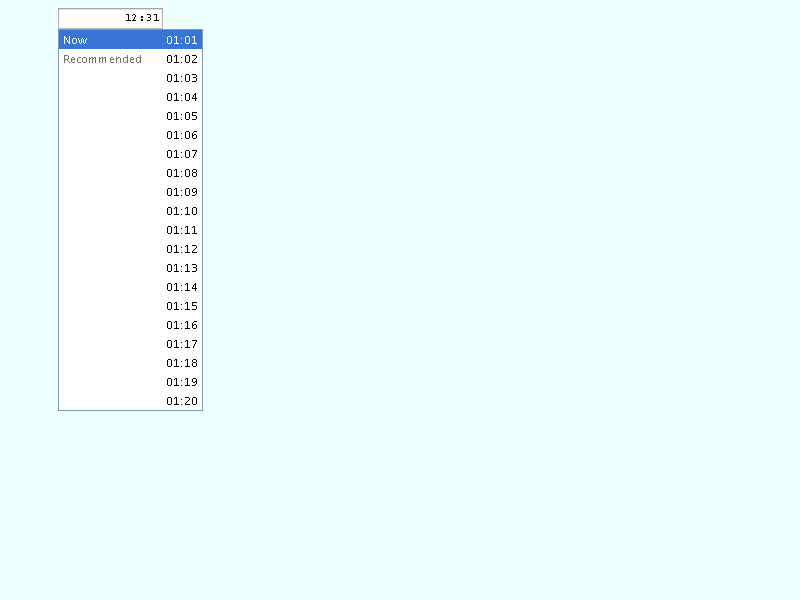
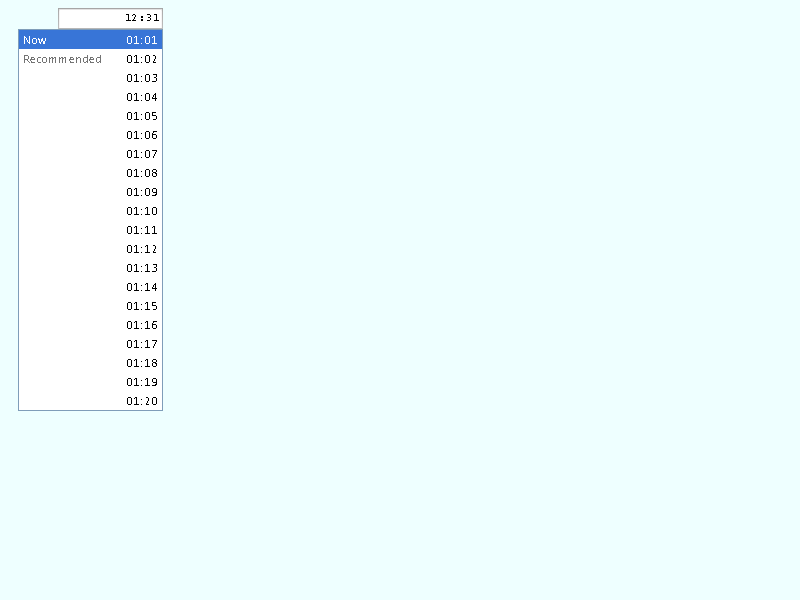
Don't use mock PagePopup if possible, part 3
Update RTL tests in fast/forms/{clendar,suggestion}-picker/ so that they use
openPicker() instead of openPickerWithMock().

- calendar-picker-appearance*-ar.html: Add dir=rtl to make enough room on the
  left side of the input elements.

BUG=409503

Review URL: https://codereview.chromium.org/761053002

git-svn-id: svn://svn.chromium.org/blink/trunk@186088 bbb929c8-8fbe-4397-9dbb-9b2b20218538

Changed region(s): [[0.0, 0.03, 0.25, 0.39], [0.1562, 0.6, 0.25, 0.69], [0.1875, 0.42, 0.2188, 0.57]]

diff --git a/LayoutTests/fast/forms/calendar-picker/calendar-picker-appearance-ar.html b/LayoutTests/fast/forms/calendar-picker/calendar-picker-appearance-ar.html
@@ -1,5 +1,5 @@
 <!DOCTYPE html>
-<html>
+<html dir="rtl">
 <head>
 <script>
 window.enablePixelTesting = true;
@@ -17,7 +17,7 @@ if (window.internals)
 <div id="console" style="opacity: 0"></div>
 
 <script>
-openPickerWithMock(document.getElementById('date'), finishJSTest);
+openPicker(document.getElementById('date'), finishJSTest);
 </script>
 </body>
 </html>

diff --git a/LayoutTests/fast/forms/calendar-picker/calendar-picker-appearance-required-ar.html b/LayoutTests/fast/forms/calendar-picker/calendar-picker-appearance-required-ar.html
@@ -1,5 +1,5 @@
 <!DOCTYPE html>
-<html>
+<html dir="rtl">
 <head>
 <script>
 window.enablePixelTesting = true;
@@ -17,7 +17,7 @@ if (window.internals)
 <div id="console" style="opacity: 0"></div>
 
 <script>
-openPickerWithMock(document.getElementById('date'), finishJSTest);
+openPicker(document.getElementById('date'), finishJSTest);
 </script>
 </body>
 </html>

diff --git a/LayoutTests/fast/forms/suggestion-picker/time-suggestion-picker-appearance-locale-hebrew.html b/LayoutTests/fast/forms/suggestion-picker/time-suggestion-picker-appearance-locale-hebrew.html
@@ -39,7 +39,7 @@ if (window.internals)
 <div id="console" style="opacity: 0"></div>
 
 <script>
-openPickerWithMock(document.getElementById('time'), finishTest);
+openPicker(document.getElementById('time'), finishTest);
 
 function finishTest() {
     popupWindow.focus();
